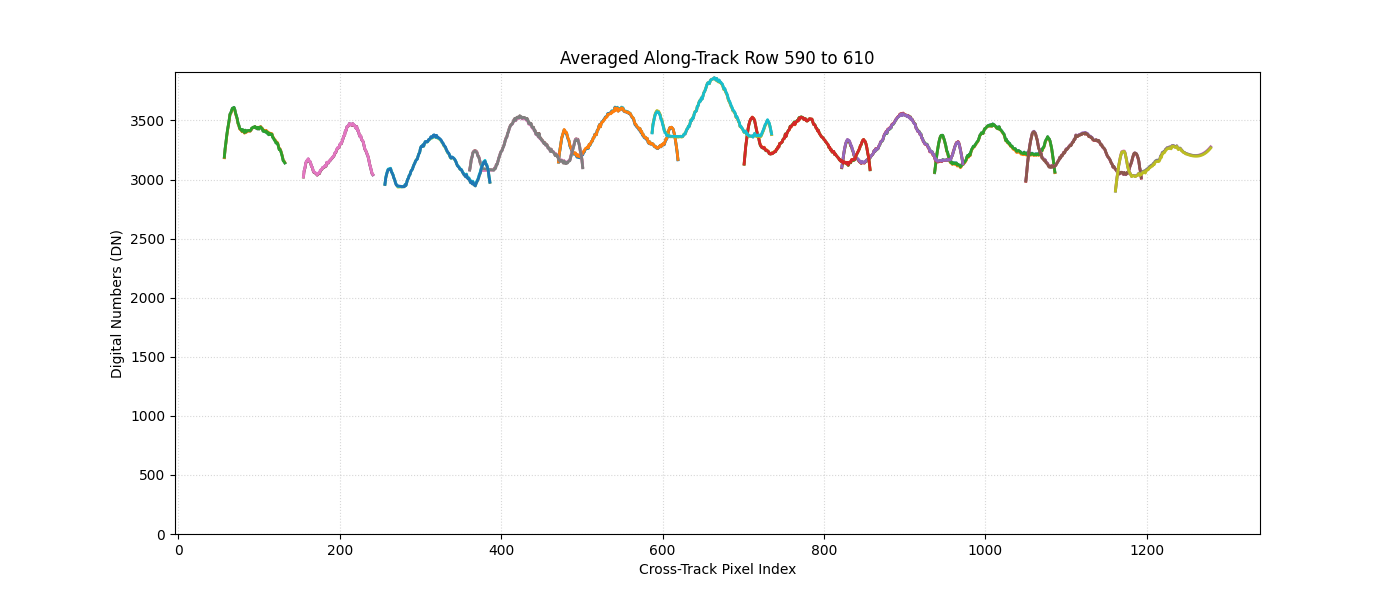
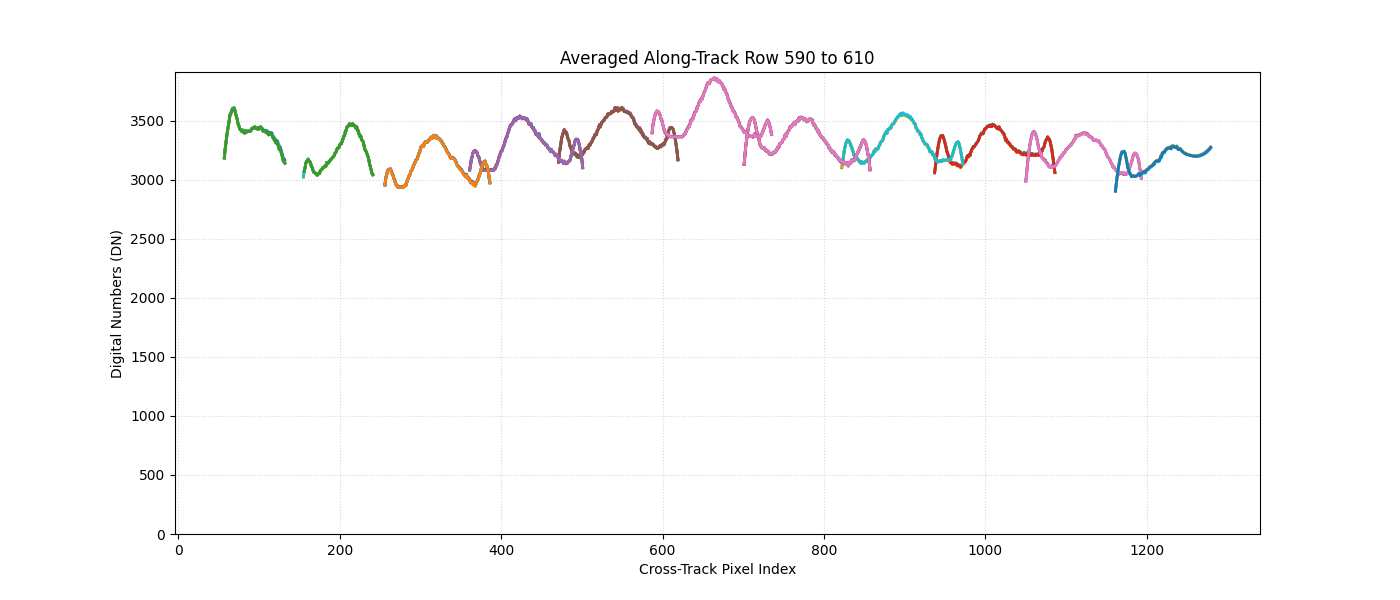
removed unncessary import

diff --git a/project_modules/CompositeProcessor.py b/project_modules/CompositeProcessor.py
@@ -19,7 +19,6 @@ import matplotlib as mpl              # A comprehensive library for creating sta
 import matplotlib.pyplot as plt       # A module within Matplotlib that provides a MATLAB-like interface for plotting. Used for displaying images and other plots.
 from scipy.signal import savgol_filter# A signal processing tool for smoothing data using the Savitzky-Golay filter, which fits successive sub-sets of adjacent data points with a low-degree polynomial by linear least squares.
 from scipy.optimize import curve_fit  # Provides functions to use non-linear least squares to fit a function (like a parabola) to data.
-from scipy.ndimage import gaussian_filter # Needed for flat field composite generation
 from project_modules.ImageProcessor import ImageProcessor # Imports the ImageProcessor class from a local module, likely used for loading and basic processing of individual images.
 from project_modules.Constants import composite_save_path, parabola_save_path, flatfield_save_path, flatfield_plot_save_path # Imports predefined file paths for saving generated plots from a local Constants module.
 from project_modules.Constants import directory_dict, crossTrack_dict, crossTrackDark_dict, alongTrack_dict, alongTrackDark_dict

diff --git a/Main.py b/Main.py
@@ -54,10 +54,17 @@ def main():
         along_filter_pos = alongTrack_dict[args.wheel_pos]
         along_dark_pos = alongTrackDark_dict[args.wheel_pos]
 
-        # take the composite image and take the an along-track row
-        # take the array of counts from the row and graph
-        composite_image = crossTrack_processor.generate_composite(cross_filter_pos, cross_dark_pos) +\
-            alongTrack_processor.generate_composite(along_filter_pos, along_dark_pos)  
+        # Choose correction mode: "average" or "pairwise"
+        correction_mode = "pairwise"  # or "average"
+
+        cross_composite = crossTrack_processor.generate_composite(
+            cross_filter_pos, cross_dark_pos, correction_mode=correction_mode
+        )
+        along_composite = alongTrack_processor.generate_composite(
+            along_filter_pos, along_dark_pos, correction_mode=correction_mode
+        )
+
+        composite_image = cross_composite + along_composite
         plot_composite(composite_image)
 
         crossTrack_processor.plotComposite(cross_filter_pos, cross_dark_pos)
